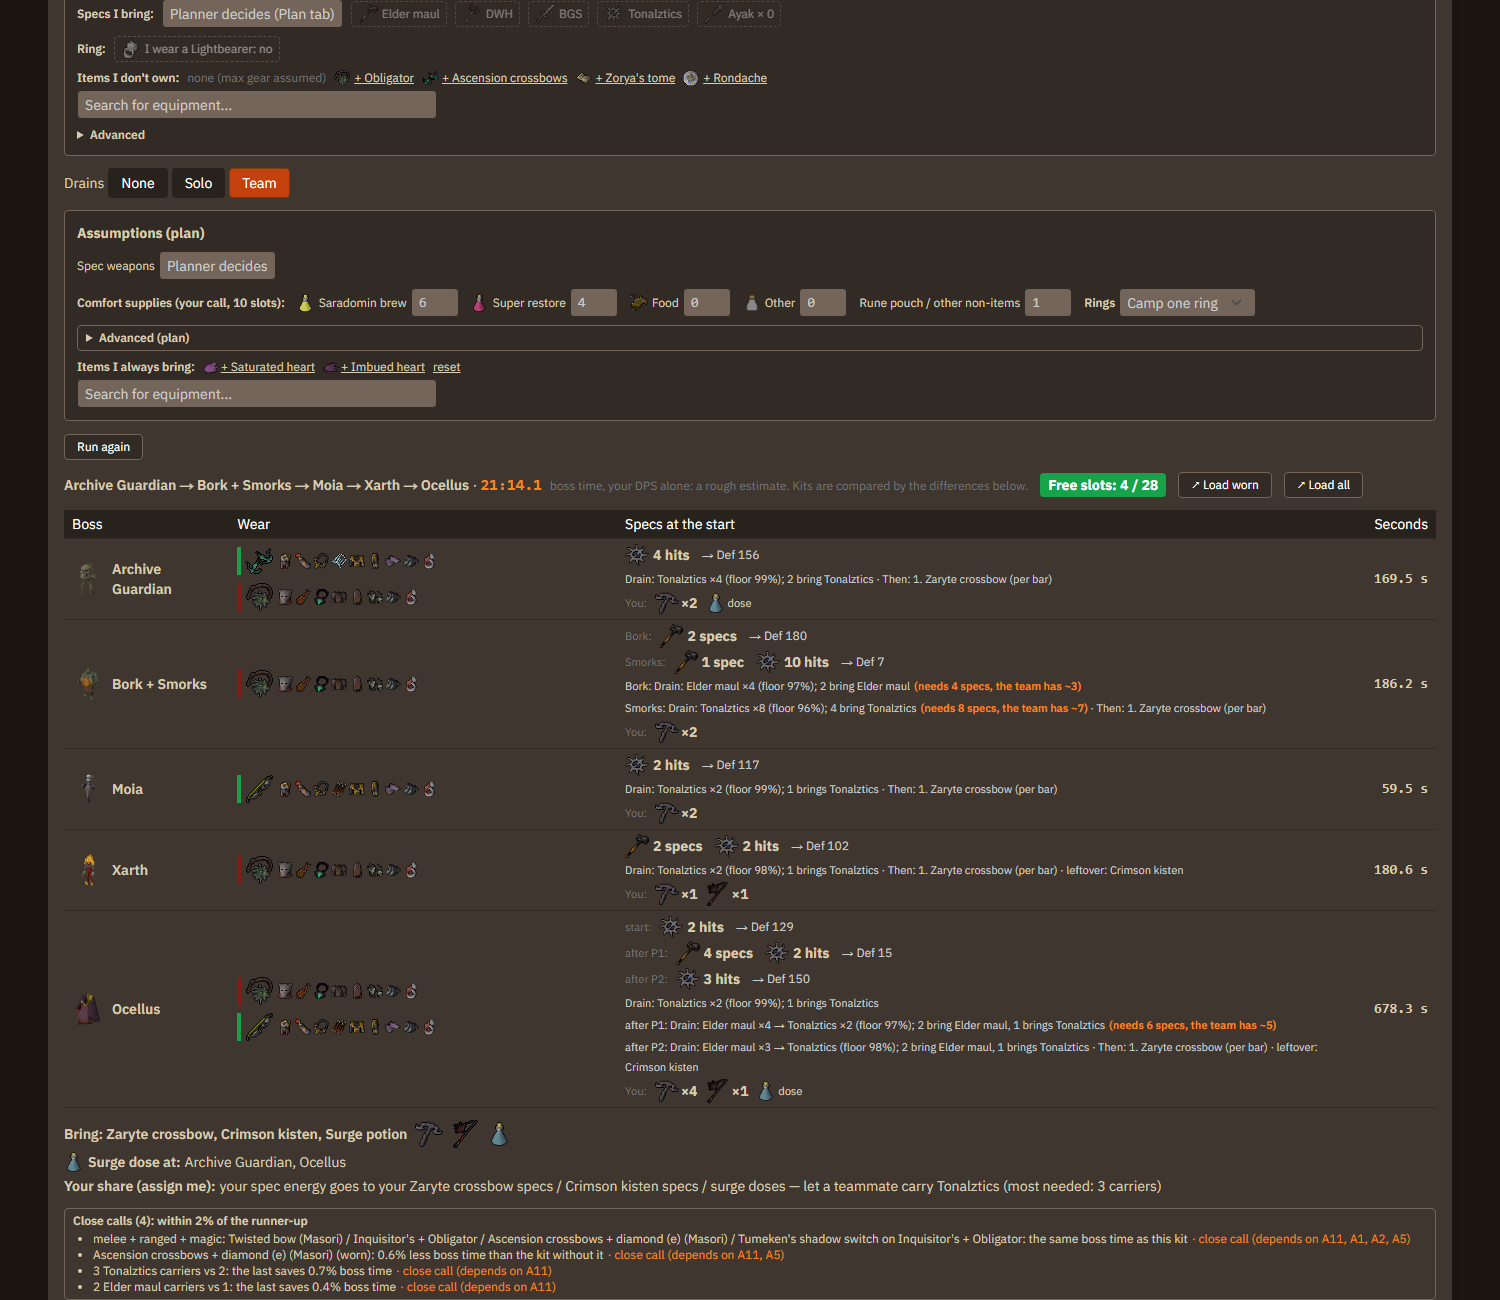
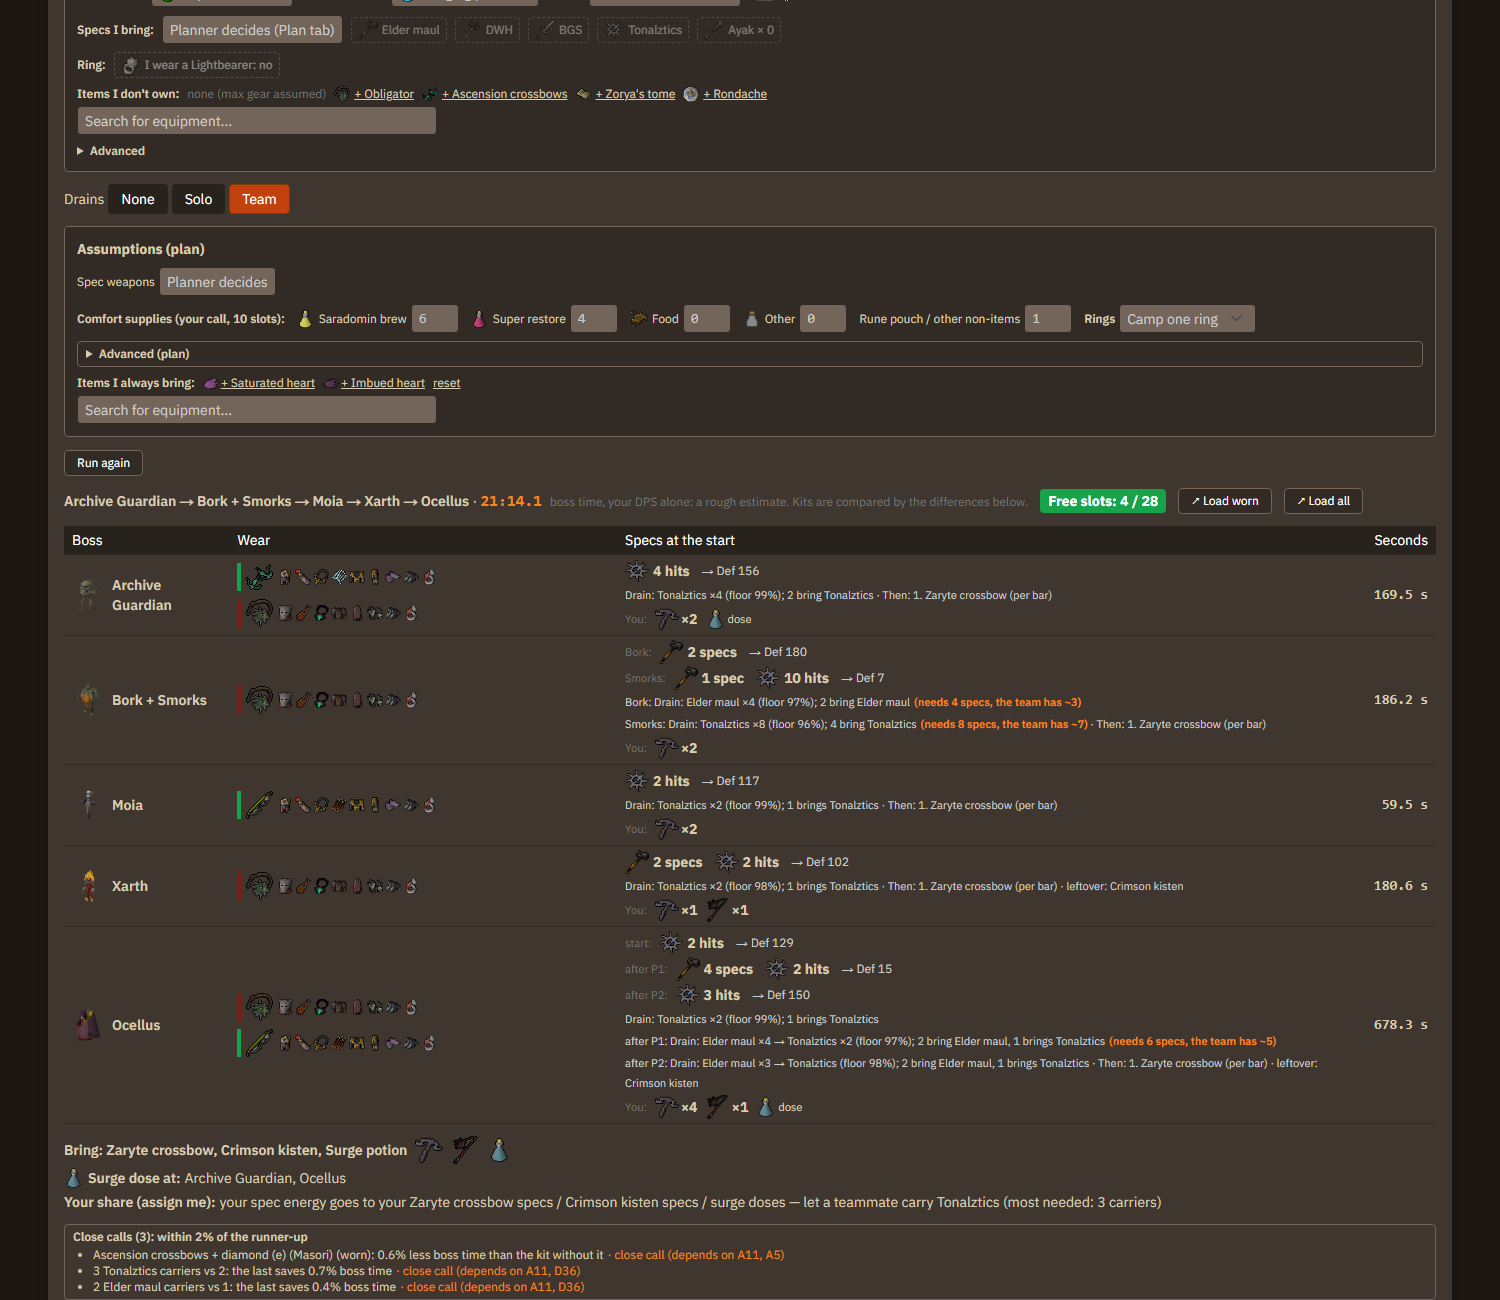
phase 38j review fixes: no superset alternatives, D36 tags, own-plan margin 1.5%
- Close calls skip the plan's kit + extra loadouts; forced alternative loadouts keep the dedupe rule.
- Energy choices tagged D36; stats.ownPlanSlack (Phase37c asserts < 0.8 x margin; margin 1% -> 1.5%).
- Second own-plan pass starts from the chosen kit's borrowed time; comments / tooltip notes.
- Headlines unchanged (phase37/fa.json: one alternative removed).

diff --git a/src/lib/fracturedArchive/planner.ts b/src/lib/fracturedArchive/planner.ts
@@ -1349,8 +1349,12 @@ const RETIME_TOP = 5;
  * Phase 38j: kits within this fraction of the best borrowed-plan time are re-timed with their own spec plan (the
  * brute-force probes: the planner's kit = the best kit).
  */
-export const OWN_PLAN_MARGIN = 0.01;
-/** Phase 38j: a kit re-timed with its own plan has every loadout saving at least this (s) on the borrowed plan. */
+export const OWN_PLAN_MARGIN = 0.015;
+/**
+ * Phase 38j: a pre-filter on borrowed (reference-plan) times: a kit is re-timed with its own plan only if each of its
+ * loadouts saves at least this (s) there. A loadout saving ~0 makes the kit a superset of one already in the pool, which
+ * the dedupe rule (checked again on exact times for the winner) would drop anyway; this keeps the re-time count small.
+ */
 export const OWN_PLAN_MEMBER_MIN = 0.5;
 
 export interface PlanProgress {
@@ -1458,6 +1462,13 @@ export interface PlanResult {
     objectiveSeconds: number;
     /** Kits re-timed exactly before picking the winner. */
     retimed: number;
+    /**
+     * Phase 38j review: the largest (borrowed − own) ÷ borrowed of the kits re-timed with their own spec plan (it must stay
+     * below OWN_PLAN_MARGIN for the margin to be safe; Phase37c's brute-force test checks < 0.8 × it).
+     */
+    ownPlanSlack?: number;
+    /** Phase 38j review: of `evaluations`, those of the exact re-times (a fresh evaluator per plan: never cached). */
+    exactEvaluations?: number;
     /**
      * Phase 37: the ring run's encounter / pass memos (kitMemo.ts): remembered results reused (hits) and runs made —
      * deterministic, so the tests catch a memo that stops working whatever the machine's load.
@@ -3046,6 +3057,7 @@ export const plan = (inputs: PlanInputs, tuning: PlanTuning = {}, hooks: PlanHoo
     // fitting kit the optimisers timed whose borrowed time is within OWN_PLAN_MARGIN of the best is re-timed with its own
     // plan (exact); the fastest that keeps the dedupe rule on exact times (each loadout saves switchSavingRequired(its
     // slots) vs the kit without it) wins.
+    let ownPlanSlack = 0;
     const ownPlanPick = () => {
       if (screen || !budgetOn) return;
       const keyOf = (m: number[]) => [...m].sort((a, b) => a - b).join(',');
@@ -3061,7 +3073,7 @@ export const plan = (inputs: PlanInputs, tuning: PlanTuning = {}, hooks: PlanHoo
       };
       const fits = Array.from(seenKits.values()).map((m) => ({ m, t: borrowedOf(m), used: usedWith(runCarried, m) }))
         .filter((x) => x.used <= total && Number.isFinite(x.t));
-      const best = Math.min(...fits.map((x) => x.t), chosen.time);
+      const best = Math.min(...fits.map((x) => x.t), borrowedOf(chosen.members));
       // within the margin, and every loadout pulls its weight on the borrowed plan (a member saving < OWN_PLAN_MEMBER_MIN
       // s is a superset of a kit already in the pool: the dedupe rule would drop it)
       const pool = fits.filter((x) => x.t <= best * (1 + OWN_PLAN_MARGIN) + EPS
@@ -3077,6 +3089,8 @@ export const plan = (inputs: PlanInputs, tuning: PlanTuning = {}, hooks: PlanHoo
       for (const x of pool) {
         if (x.t > bestExact * (1 + OWN_PLAN_MARGIN) + EPS) break;
         const e = exactSeconds(exactOf(x.m).cmp);
+        // review 38j: how much a kit's own plan beat its borrowed time (the margin's evidence; stats.ownPlanSlack)
+        if (Number.isFinite(e) && x.t > 0) ownPlanSlack = Math.max(ownPlanSlack, (x.t - e) / x.t);
         if (e < bestExact - EPS && dedupeOk(x.m, e)) {
           bestExact = e;
           win = x;
@@ -3244,6 +3258,8 @@ export const plan = (inputs: PlanInputs, tuning: PlanTuning = {}, hooks: PlanHoo
           }
         }
         const pick = fit ?? over?.k;
+        // review 38j: a forced loadout must pull its weight (the dedupe rule), else the mix has no alternative
+        if (pick && Number.isFinite(base.time) && base.time - pick.time < switchSavingRequired(pick.used - base.used)) break;
         if (pick) s = pick;
       }
       if (mixOf(s) !== label) continue;
@@ -3366,9 +3382,11 @@ export const plan = (inputs: PlanInputs, tuning: PlanTuning = {}, hooks: PlanHoo
           preset: nPreset, search: nSearch, partial: nPartial, total: candidates.length, capped,
         },
         evaluations: evaluations + exactEvaluations,
+        exactEvaluations,
         kitsEvaluated: opt.kitsEvaluated,
         objectiveSeconds: chosen.time,
         retimed: finalists.length,
+        ownPlanSlack,
         memo: { ...kitMemo.stats },
         ...(soloFight ? { fightSeconds: soloFight } : {}),
         ms: {

diff --git a/src/lib/fracturedArchive/closeCalls.ts b/src/lib/fracturedArchive/closeCalls.ts
@@ -33,6 +33,11 @@ const WEAPON_ASSUMPTIONS: [string, string[]][] = [
 
 /** Every FA choice rests on A11 (Defence doesn't scale with the party). */
 export const BASE_ASSUMPTIONS = ['A11'];
+/**
+ * Review 38j: the choices the spec energy decides (ring, carriers, your bar, the damage spec weapon) also rest on D36 (the
+ * measured room times).
+ */
+export const ENERGY_ASSUMPTIONS = [...BASE_ASSUMPTIONS, 'D36'];
 
 /** The (A) rows a choice between these names rests on (A11 first, then by number). */
 export const assumptionsFor = (names: (string | null | undefined)[]): string[] => {
@@ -105,8 +110,12 @@ const closeBy = (saved: number, total: number): number | null => {
 export const closeCalls = (r: CloseCallInput): CloseCall[] => {
   const out: CloseCall[] = [];
   const kitNames = r.kit.flatMap((c) => [c.label, c.equipment.weapon?.name]);
-  // the kit vs the best other kit (alternatives are slower or equal)
+  // the kit vs the best other kit (alternatives are slower or equal); review 38j: not the plan's kit plus extra loadouts
+  // at the same time (a superset the dedupe rule would drop, not a runner-up)
+  const kitLabels = r.kit.map((c) => c.label);
   r.alternatives.forEach((x) => {
+    const loadouts = x.label.slice(x.label.indexOf(': ') + 2).split(' / ');
+    if (x.deltaSeconds >= -1e-9 && kitLabels.every((l) => loadouts.includes(l)) && loadouts.length > kitLabels.length) return;
     const m = x.deltaSeconds <= 1e-9 ? closeBy(x.deltaSeconds, r.total) : null;
     if (m === null) return;
     out.push({
@@ -141,7 +150,7 @@ export const closeCalls = (r: CloseCallInput): CloseCall[] => {
         kind: 'ring',
         text: `${x.ring} instead of ${r.ring.ring}: ${bossTimeDiff(base - x.seconds, r.total)}`,
         margin: m,
-        dependsOn: [...BASE_ASSUMPTIONS],
+        dependsOn: [...ENERGY_ASSUMPTIONS],
       });
     });
   }
@@ -155,7 +164,7 @@ export const closeCalls = (r: CloseCallInput): CloseCall[] => {
       kind: 'carrier',
       text: `${row.carriers} ${w} carrier${row.carriers === 1 ? '' : 's'} vs ${row.carriers - 1}: the last saves ${bossTimeDiff(s!, r.total).replace(' less', '')}`,
       margin: m,
-      dependsOn: [...BASE_ASSUMPTIONS],
+      dependsOn: [...ENERGY_ASSUMPTIONS],
     });
   });
   // your spec bar (Team): "the bars pay X HP on the route vs Y HP if you carry"
@@ -169,7 +178,7 @@ export const closeCalls = (r: CloseCallInput): CloseCall[] => {
       kind: 'share',
       text: `your spec bar: ${x.toFixed(0)} HP with your damage specs vs ${y.toFixed(0)} HP if you carry a drain weapon (${pct(m)} apart)`,
       margin: m,
-      dependsOn: [...BASE_ASSUMPTIONS],
+      dependsOn: [...ENERGY_ASSUMPTIONS],
     });
   });
   // the damage spec weapon brought first vs the runner-up (HP per full bar over the route's bosses / phases)
@@ -186,7 +195,7 @@ export const closeCalls = (r: CloseCallInput): CloseCall[] => {
           kind: 'damage-spec',
           text: `${damageLabel(br.first)} vs ${damageLabel(runner)}: ${pct(Math.abs(m))} apart in HP per bar over the route`,
           margin: Math.abs(m),
-          dependsOn: [...BASE_ASSUMPTIONS],
+          dependsOn: [...ENERGY_ASSUMPTIONS],
         });
       }
     }

diff --git a/src/tests/lib/fracturedArchive/Phase38j.test.ts b/src/tests/lib/fracturedArchive/Phase38j.test.ts
@@ -193,10 +193,11 @@ describe('close calls (by hand)', () => {
       ['kit', 0.019, 'A11,A1,A2,A5'],
       ['loadout', 0.015, 'A11,A1,A2'],
       ['loadout', 0.02, 'A11'],
-      ['ring', 0.01, 'A11'],
-      ['carrier', 0.008, 'A11'],
-      ['share', 0.0149, 'A11'],
-      ['damage-spec', 0.01, 'A11'],
+      // review 38j: the energy choices also rest on D36 (the measured room times)
+      ['ring', 0.01, 'A11,D36'],
+      ['carrier', 0.008, 'A11,D36'],
+      ['share', 0.0149, 'A11,D36'],
+      ['damage-spec', 0.01, 'A11,D36'],
       ['drain', 0.1, 'A11'],
     ]);
     expect(cs.map((c) => c.text)).toEqual([
@@ -210,6 +211,17 @@ describe('close calls (by hand)', () => {
       'Xarth: the drain on Xarth vs the damage specs its energy would buy (within 10%; the drain is kept)',
     ]);
     expect(closeCallTag(cs[1])).toBe('close call (depends on A11, A1, A2)');
+    expect(closeCallTag(cs[4])).toBe('close call (depends on A11, D36)');
+  });
+
+  test("review 38j: an alternative that is the plan's kit plus loadouts at the same time is no runner-up", () => {
+    const superset = {
+      label: "melee + ranged + magic: Twisted bow (Masori) / Inquisitor's + Obligator / Tumeken's shadow (Ancestral) / Kodai wand",
+      deltaSeconds: 0,
+    };
+    expect(closeCalls({ ...input, alternatives: [superset] }).filter((c) => c.kind === 'kit')).toEqual([]);
+    // slower by 1.0%: still a close call
+    expect(closeCalls({ ...input, alternatives: [{ ...superset, deltaSeconds: -10 }] }).filter((c) => c.kind === 'kit')).toHaveLength(1);
   });
 
   test('nothing within 2%: no close calls', () => {
@@ -228,14 +240,14 @@ describe('close calls (by hand)', () => {
     expect(assumptionsFor(['Emberlight', 'Zorya\'s tome', 'Obligator'])).toEqual(['A11', 'A1', 'A2', 'A8', 'A9']);
   });
 
-  test('the fa headline: the tied kit, the worn Ascension crossbows (0.6%) and both carriers', () => {
+  test('the fa headline: the worn Ascension crossbows (0.6%) and both carriers (review 38j: no superset kit)', () => {
     const fx = phase37Fixture('fa');
     const r = retimeHeadline('fa');
     const planned = r.comparison.routes.findIndex((x) => x.route.id === r.route);
     const cs = planCloseCalls({ ...fx, comparison: r.comparison, planned });
-    expect(cs.map((c) => c.kind)).toEqual(['kit', 'loadout', 'carrier', 'carrier']);
-    expect(cs[0].text).toMatch(/: the same boss time as this kit$/);
-    expect(cs[1].text).toBe('Ascension crossbows + diamond (e) (Masori) (worn): 0.6% less boss time than the kit without it');
-    expect(cs[1].dependsOn).toEqual(['A11', 'A5']);
+    expect(cs.map((c) => c.kind)).toEqual(['loadout', 'carrier', 'carrier']);
+    expect(cs[0].text).toBe('Ascension crossbows + diamond (e) (Masori) (worn): 0.6% less boss time than the kit without it');
+    expect(cs[0].dependsOn).toEqual(['A11', 'A5']);
+    expect(cs[1].dependsOn).toEqual(['A11', 'D36']);
   }, 120000);
 });

diff --git a/src/tests/lib/fracturedArchive/Phase34.test.ts b/src/tests/lib/fracturedArchive/Phase34.test.ts
@@ -340,8 +340,9 @@ describe('render: icons next to every item name', () => {
     expect(r.rejected).toEqual([]);
     expect(r.alternatives.map((x) => `${x.label}: ${x.deltaSlots} — ${x.reason.replace(/[0-9.]+ s slower/, 'N s slower')}`)).toEqual([
       // phase 38h-3 (ZCB only: 3 more free slots): a four-loadout kit fits now. Phase 38h-3b (+ Burning claws, a Surge
-      // potion: 2 fewer free): the ranged + magic one takes diamond ascension bolts, 4 slots more
-      "melee + ranged + magic: Twisted bow (Masori) / Inquisitor's + Obligator / Ascension crossbows + diamond (e) (Masori) / Tumeken's shadow switch on Inquisitor's + Obligator: 2 — N s slower",
+      // potion: 2 fewer free): the ranged + magic one takes diamond ascension bolts, 4 slots more. Review 38j: the
+      // melee + ranged + magic line (the plan + a Tumeken's shadow switch saving 0 s) is gone: a forced loadout must keep
+      // the dedupe rule
       "melee + magic: Tumeken's shadow (Ancestral) / Inquisitor's + Obligator / Harmonised Nightmare staff / Harmonised Nightmare staff #4: 3 — N s slower",
       "ranged + magic: Tumeken's shadow (Ancestral) / Twisted bow (Masori) / Ascension crossbows + diamond (e) (Masori) / Ascension crossbows + Diamond ascension bolts (e): 4 — N s slower",
       "magic: Tumeken's shadow (Ancestral) / Harmonised Nightmare staff / Harmonised Nightmare staff #4: -5 — N s slower",

diff --git a/src/tests/lib/raids/Phase37c.test.ts b/src/tests/lib/raids/Phase37c.test.ts
@@ -8,6 +8,7 @@ import {
 } from '@/tests/utils/probes';
 import { headline } from '@/tests/utils/headlines';
 import { slowTest } from '@/tests/utils/slow';
+import { OWN_PLAN_MARGIN } from '@/lib/fracturedArchive/planner';
 
 // Phase 37c: smoke tests of the three review probes (scripts/probes/*.mjs over src/tests/utils/probes.ts) on small cases.
 
@@ -109,6 +110,8 @@ describe('brute-force kits: the planner\'s kit = the best of every kit (tiny poo
     expect(b.gap).toBeLessThanOrEqual(1e-6);
     expect(b.gap).toBeGreaterThanOrEqual(-1e-6);
     expect(bruteForceOk(b)).toBe(true);
+    // phase 38j review: a kit's own spec plan beats its borrowed (reference-plan) time by well under the re-time margin
+    expect(b.ownPlanSlack).toBeLessThan(0.8 * OWN_PLAN_MARGIN);
     // the CLI's exit condition: a kit faster than the planner's, or the planner's kit re-timing differently, fails
     expect(bruteForceOk({ ...b, gap: 2e-6 })).toBe(false);
     expect(bruteForceOk({ ...b, plannedInSpace: b.planned + 1e-3 })).toBe(false);

diff --git a/src/tests/lib/fracturedArchive/Phase27.test.ts b/src/tests/lib/fracturedArchive/Phase27.test.ts
@@ -202,8 +202,10 @@ slowDescribe('caches (review fix)', () => {
     const second = plan(inputs(7), reduced(raid));
     expect(first.stats.searches).toBeGreaterThan(0);
     expect(second.stats.searches).toBe(0);
-    // phase 38j: the kits re-timed with their own spec plan (exact, a fresh evaluator per plan) add evaluations: / 5 → / 4
-    expect(second.stats.evaluations).toBeLessThan(first.stats.evaluations / 4);
+    // phase 38j review: the exact re-times (kits ranked by their own spec plan) use a fresh evaluator per plan, so the
+    // cached part is the search / matrix DPS: evaluations − exactEvaluations
+    const cachedPart = (r: typeof first) => r.stats.evaluations - (r.stats.exactEvaluations ?? 0);
+    expect(cachedPart(second)).toBeLessThan(cachedPart(first) / 5);
     // same DPS as an uncached run
     clearPlanCaches();
     const fresh = plan(inputs(7), reduced(raid));

diff --git a/src/app/components/bestSetup/PlanView.tsx b/src/app/components/bestSetup/PlanView.tsx
@@ -1183,7 +1183,7 @@ const PlanView: React.FC<{
                 ) : <div>No other candidate loadout would make the route faster.</div>}
                 {result.alternatives.length > 0 && (
                   <>
-                    <div>Alternatives (a lighter kit, then the best kit of each other style mix):</div>
+                    <div title="Each alternative's % is timed with the plan's reference spec plan (the optimiser's score), not its own: up to ~1% off (under the 2% close-call margin); the kit itself is chosen on its own spec plan">Alternatives (a lighter kit, then the best kit of each other style mix):</div>
                     <RejectionList rows={result.alternatives} testId="plan-alternatives" total={secs(planned.seconds)} />
                   </>
                 )}

diff --git a/src/tests/utils/probes.ts b/src/tests/utils/probes.ts
@@ -384,6 +384,8 @@ export interface BruteForce {
   /** The reduced plan's time; `ms` = plan + kits. */
   planMs: number;
   ms: number;
+  /** Phase 38j review: the plan's largest (borrowed − own) ÷ borrowed among the kits re-timed with their own plan. */
+  ownPlanSlack: number;
 }
 
 export const BRUTE_TOLERANCE = 1e-6;
@@ -470,6 +472,7 @@ export const bruteForceKits = (raid: RaidId, opts: {
     top: sorted.slice(0, 5).map((t) => ({ seconds: t.seconds, kit: names(t.members) })),
     planMs,
     ms: Date.now() - t0,
+    ownPlanSlack: res.stats.ownPlanSlack ?? 0,
   };
 };
 

diff --git a/PROGRESS.md b/PROGRESS.md
@@ -3,6 +3,24 @@
 Newest entry first. One entry per phase (or per notable fix). Keep entries short: what was done, how it was
 verified, what's unverified / left for later.
 
+## Phase 38j review fixes (FA, 2026-10-30)
+
+Review of 7d882dd2 + dcbf15cb: PASS with findings.
+- (1) Close calls skip an alternative that is the plan's kit plus extra loadouts at the same time. The planner no longer
+  forces a style's loadout into an alternative when it saves less than switchSavingRequired(its slots). fa loses its
+  "melee + ranged + magic … Tumeken's shadow switch" alternative (0 s, +2 slots), so phase37/fa.json changed in
+  `alternatives` only. Close calls: fa 4 → 3.
+- (2) The ring, carrier, your-bar and damage-spec close calls also depend on D36 ("close call (depends on A11, D36)").
+- (3) `stats.ownPlanSlack` records the largest (borrowed − own) ÷ borrowed among the kits re-timed. Phase37c tiny
+  measured 1.16%, more than the 1% margin, so **OWN_PLAN_MARGIN is now 1.5%**; Phase37c asserts slack < 0.8 × the margin.
+- (4) The second pass starts from the chosen kit's borrowed time under the new carriers, not its old optimiser time.
+- (5) Comment on OWN_PLAN_MEMBER_MIN (a pre-filter on borrowed times).
+- (6) BEST_SETUP and the alternatives' tooltip: their % still use the reference kit's spec plan (up to ~1.2% off).
+- Headlines unchanged (`pinHeadlines --full --check`: only phase37/fa.json's alternatives). Planning time alone: fa
+  45.1 s, faSolo 53.1 s, faNotOwned 65.4 s. Tests: Phase38j (superset case, D36 tags, fa 3 close calls), Phase34
+  alternatives; verifyPhase38j expects 3 close calls.
+- Run: fast suite green (1452); FA slow suites green (380, Phase36 + Phase37c brute force gap 0, Phase27 caches re-run after its fix); `pinHeadlines --full --check` no change; verifyPhase38j OK (screenshot re-taken: 3 close calls); tsc, lint clean.
+
 ## Phase 38j follow-up: kits ranked by their own spec plan (FA, 2026-10-30)
 
 Orchestrator decision on 7d882dd2's open items. docs/BEST_SETUP.md *Kits ranked by their own spec plan*.

diff --git a/docs/BEST_SETUP.md b/docs/BEST_SETUP.md
@@ -1884,6 +1884,10 @@ brute-force probes found kits 0.2-0.5% faster). That time is now a pre-screen: e
 the best exact × 1.01; the fastest keeping the dedupe rule on exact times wins. Run again after the Team carriers are
 re-picked by HP (the brute force times every kit under the final carriers). The winners needed 0.50% (small pool) and
 0.77% (tiny pool) of borrowed slack. Phase36's brute force now applies the dedupe rule, as the probe does since 38c.
+Review 38j: the margin is 1.5% (a kit's own plan beat its borrowed time by up to 1.16% in the tiny pool;
+`stats.ownPlanSlack`, Phase37c checks < 0.8 × the margin). The Plan's alternative kits and rejected additions are still
+timed with the reference kit's spec plan (the optimiser's score, error up to ~1.2%, under the 2% close-call margin; the
+tooltip says so); the chosen kit is not.
 
 ## Routes tab (phase 16: raid time model)
 
